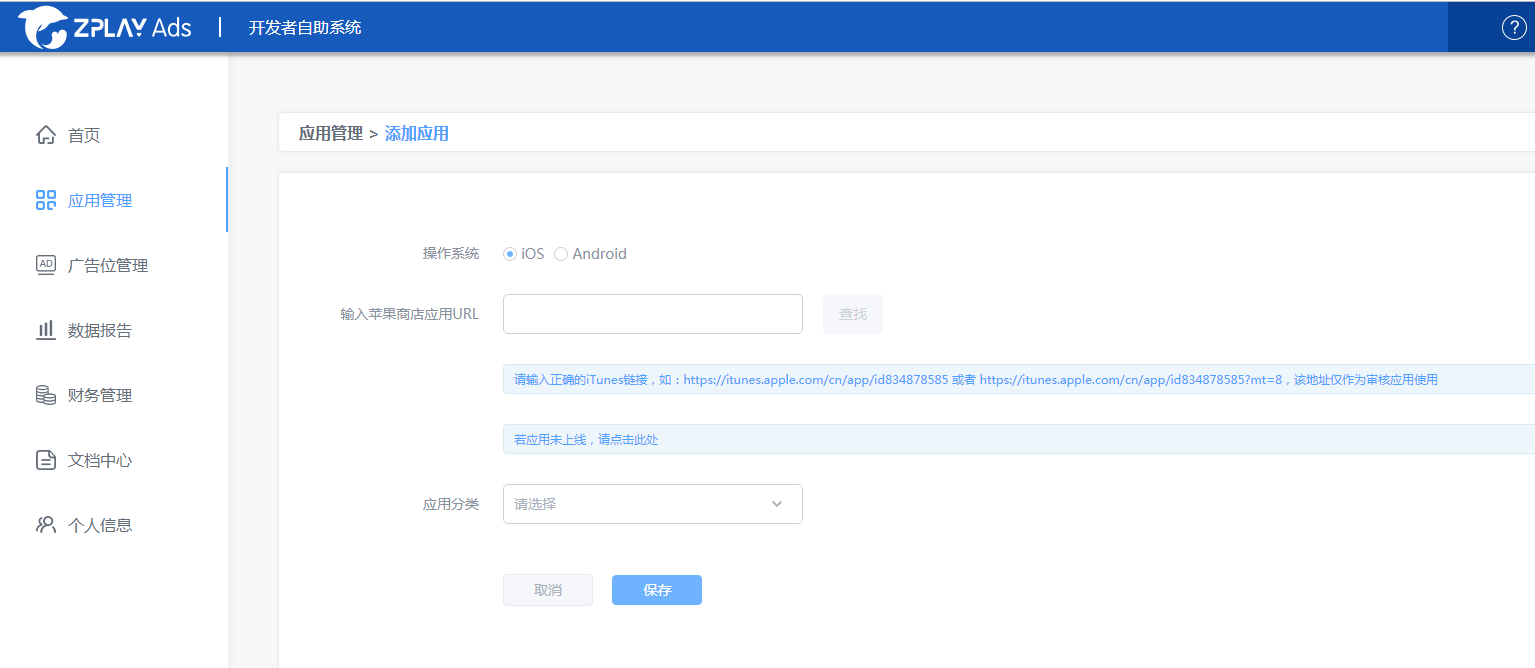
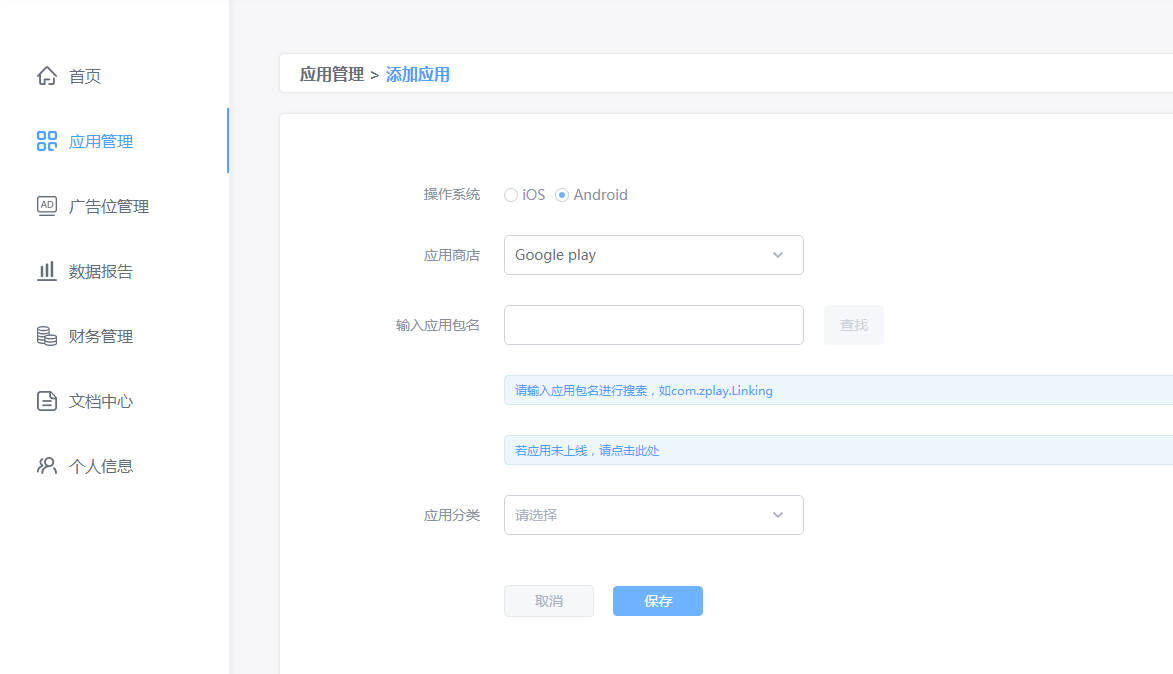
update

diff --git a/README-EN.md b/README-EN.md
@@ -1,5 +1,5 @@
 ## Directory
-1. Apply for app ID and ad unit ID on ZPLAY Ads platform
+1. Apply for APP ID and Ad Unit ID on ZPLAY Ads platform
 2. Add MoPub SDK and ZPLAY Ads SDK
 3. Add the following files into project
 4. Set ad unit for ZPLAY Ads on MoPub
@@ -10,28 +10,28 @@
 9. Debugging
 
 
-## 1. Apply for app ID and ad unit ID on ZPLAY Ads platform
+## 1. Apply for APP ID and Ad Unit ID on ZPLAY Ads platform
 ### 1.1 Click *ADD NEW APP* button in [Application Management](https://sellers.zplayads.com/#/app/appList/) page
-![“应用管理”页面](imgs/img20.png)
+![Application management](imgs/img20.png)
 
 ### 1.2 Fill in app information, and click *Save* button, then go back to Application Management
-a. If your APP is online, you can fill in download address to get APP information
-![添加](imgs/img21-2.png)
+a. If your APP is lauched in Google Play, you can fill in package name to get APP information
+![Add an app](imgs/img21-2.png)
 
 b. If your APP is not online, you should fill in APP information manually
-![添加](imgs/img21.png)
+![Add an app](imgs/img21.png)
 
-### 1.3 Obtain your app ID in Application Management page
-![应用管理列表页](imgs/img22.png)
+### 1.3 Obtain your APP ID in Application Management page
+![Application list](imgs/img22.png)
 
 ### 1.4 Click *ADD NEW ADUNIT* button in app list, or you are also available to do this in [AdUnit Management](https://sellers.zplayads.com/#/ad/placeList/) page
-![创建广告位](imgs/img23.png)
+![Creat adunit](imgs/img23.png)
 
 ### 1.5 Fill in adunit information, and click *Save* button, then go back to AdUnit Management
-![添加](imgs/img24.png)
+![Add an adunit](imgs/img24.png)
 
 ### 1.6 Obtain your adunit ID in AdUnit Management page
-![获取广告位](imgs/img25.png)
+![Obtain adunit ID](imgs/img25.png)
 
 Note: You are available to use the following ID when testing(not charge). Please switch to the ID you applied in production mode.
 
@@ -93,16 +93,16 @@ Please ensure no errors after classes imported. Then record the path of package,
 
 - c. Obtain the new adunit ID
 
-![创建广告位](imgs/img09.png)
+![Obtain new adunit ID](imgs/img09.png)
 
 ### 4.2 Obtain the existed adunit ID
-- a. Choose your app and enter adunit list.Click the adunit, and click *Edit an unit*, then choose *View code integration* button.
+- a. Choose your APP and enter adunit list.Click the adunit, and click *Edit an unit*, then choose *View code integration* button.
 
 ![view code integration](imgs/img10.png)
 
 - b. Obtain the adunit ID
 
-![获取广告位](imgs/img11.png)
+![Obtain existed adunit ID](imgs/img11.png)
 
 ## 5. Add ZPLAY Ads as a new network on [MoPub](https://app.mopub.com/networks)
 ### 5.1 Open Networks page, click *New network* button
@@ -114,9 +114,9 @@ Please ensure no errors after classes imported. Then record the path of package,
 
 ### 5.3 Set the title as ZPLAY Ads Network, and configure ZPLAY Ads in the adunits which were applied in step 3(image 1 and 2).
 
-![配置](imgs/img14.png)
-![配置](imgs/img14-2.png)
-![配置](imgs/img14-3.png)
+![Configuration](imgs/img14.png)
+![Configuration](imgs/img14-2.png)
+![Configuration](imgs/img14-3.png)
 
 - a. Add the followings to image 1:
 ```
@@ -132,25 +132,25 @@ com.zplay.playable.mediationmopub.ZPLAYAdsRewardedVideo
     "AdUnitId": "3FBEFA05-3A8B-2122-24C7-A87D0BC9FEEC"
 }
 ```
-Note: Please remenber change test APP ID "5C5419C7-A2DE-88BC-A311-C3E7A646F6AF" to the APP ID you applied on ZPLAY Ads, and change test Ad Unit ID "3FBEFA05-3A8B-2122-24C7-A87D0BC9FEEC" to the APP ID you applied on ZPLAY Ads.
+Note: Please remember change test APP ID "5C5419C7-A2DE-88BC-A311-C3E7A646F6AF" to the APP ID you applied on ZPLAY Ads, and change test Ad Unit ID "3FBEFA05-3A8B-2122-24C7-A87D0BC9FEEC" to the APP ID you applied on ZPLAY Ads.
 
 ## 6. Turn on ZPLAY Ads network on [MoPub](https://app.mopub.com/segments)
 ### 6.1 Open Segments page, and click Global Segment
 ![Global Segment](imgs/img15.png)
 
 ### 6.2 Find the app and adunit which have been integrated to ZPLAY Ads（as the MediationMopub in screenshot below), turn on ZPLAY Ads network(as the turn on button in screenshot below).
-![turn on](imgs/img16.png)
+![Turn on](imgs/img16.png)
 
 
 ## 7. Confirm the configuration of ZPLAY Ads
 After step 6.2, the ZPLAY Ads network has been available already. Enter AdUnit Management page, the ad sources list will be shown as below if configuration is successful. If not, please check according to the previous steps.
 
-![确认可玩广告配置成功](imgs/img17.png)
+![Confirm the configuration of ZPLAY Ads](imgs/img17.png)
 
 ## 8. Use MoPub to request ZPLAY Ads in project
 Here are the configurations:
 
-![配置信息](imgs/img18.png)
+![Configuration](imgs/img18.png)
 
 Image 1: Import MoPub-needed files.
 Image 2: Initialize MoPub SDK.
@@ -160,4 +160,4 @@ Image 4: Show ad, please fill in the adunit ID applied on MoPub correctly(view s
 ## 9. Debugging
 View MoPubRewardedVideoListener callback to determine whether the ad has been loaded successfully and find problems .
 
-![调试信息](imgs/img19.png)
+![Debugging](imgs/img19.png)

diff --git a/README-CN.md b/README-CN.md
@@ -16,7 +16,7 @@
 ![“应用管理”页面](imgs/img01.png)
 
 ### 1.2 填写相关信息，点击“保存”按钮，返回应用管理列表页 
-a. 若您的应用已上线，可直接填入应用下载地址获取应用信息
+a. 若您的应用已上线，且为Google Play渠道的应用，可直接填入应用包名获取应用信息
 ![保存](imgs/img02.png)
 
 b. 若您的应用未上线，您需手动填写应用信息
